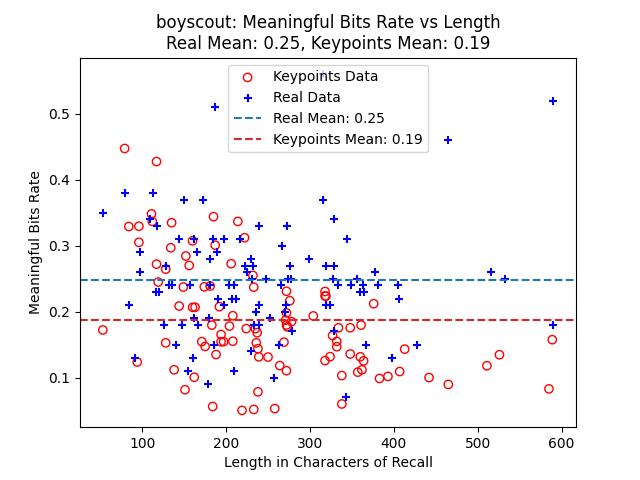
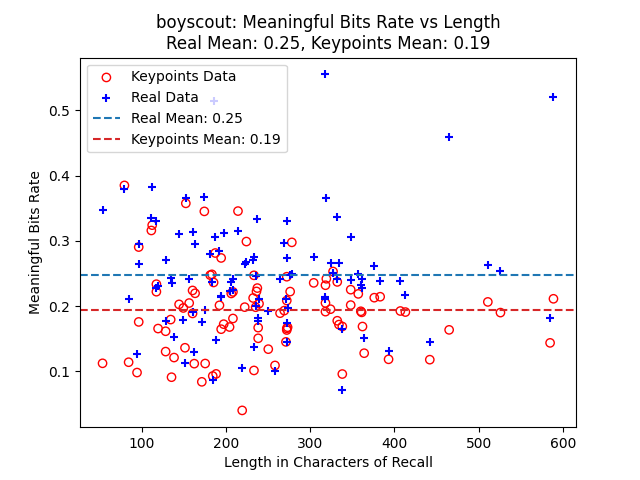
use key points generated by gpt4

diff --git a/7e71ecbb7830fd69dc78ba1369a452129b88e980fdbb6d63285fbb8f912f/key_points_vs_real_mbits_difference_plot.html b/7e71ecbb7830fd69dc78ba1369a452129b88e980fdbb6d63285fbb8f912f/key_points_vs_real_mbits_difference_plot.html
@@ -39,66 +39,79 @@
     <section class="image-section" id="bear">
         <h2>Bear</h2>
         <img src="bear/key_points_vs_real_mbits_difference_plot.png" alt="Bear">
+<!-- bear --> <ol><li>Narrator met three friends in college in 1949, knew them from high school athletics.</li><li>All four attended the same college and became good friends.</li><li>Friends enjoyed hunting on the narrator's farm, despite narrator's lack of interest in hunting.</li><li>Group decided to go bear hunting in Canada, which the narrator reluctantly joined.</li><li>They flew to Canada, canoed, and backpacked to a remote cabin for the hunt.</li><li>Once at the cabin, none were eager to hunt due to the spooky surroundings.</li><li>They played cards for days, avoiding the bear hunt.</li><li>Faced with returning home without a bear, they decided to draw cards to choose a hunter.</li><li>Narrator drew the high card and had to go bear hunting alone.</li><li>Encountered a large bear, forgot to load the gun, and had to run back to the cabin.</li><li>Led the bear into the cabin, escaped, and left the bear for friends to deal with.</li><li>The event occurred thirty years prior to the telling of the story.</li><li>Narrator fulfilled the commitment, but was never asked to go hunting again.</li></ol> <hr>
     </section>
 
     <section class="image-section" id="boy-scout">
         <h2>Boy Scout</h2>
         <img src="boyscout/key_points_vs_real_mbits_difference_plot.png" alt="Boy Scout">
+<!-- boyscout --> <ol><li>Narrator was in the boy scouts participating in a 50-yard dash at the pier.</li><li>During the third race, the narrator caught cramps and started yelling for help.</li><li>The other scouts thought the narrator was pretending in order to catch up and ignored him.</li><li>The scoutmaster also saw the narrator in distress but did not react.</li><li>A bystander who had just arrived at the scene noticed the narrator and rescued him.</li></ol> <hr>
     </section>
 
     <section class="image-section" id="costa">
         <h2>Costa</h2>
         <img src="costa/key_points_vs_real_mbits_difference_plot.png" alt="Costa">
+<!-- costa --> <ol><li>The narrator's daughter, Marie, died 28 years ago on the 30th of the month after an appendectomy.</li><li>Marie was still under the effects of ether when the hospital staff attempted to get her out of bed, leading to complications.</li><li>The narrator blames the hospital for a blood clot that developed after Marie was prematurely moved.</li><li>Marie was preparing to be discharged from the hospital when she suddenly fell ill and passed away.</li><li>The narrator was informed of Marie's discharge and was bringing her clothes when she found out about her daughter's condition.</li><li>Marie experienced a sudden pain in her leg and an inability to see before collapsing, which was later attributed to a blood clot.</li><li>The narrator became hysterical upon learning of her daughter's death and refused to let the hospital perform an autopsy.</li><li>The death of Marie caused a great shock to the family, leading to the narrator's husband and son experiencing heart attacks.</li><li>The entire neighborhood was affected by Marie's death, remembering her as a quiet and pleasant girl.</li></ol> <hr>
     </section>
 
     <section class="image-section" id="do-something">
         <h2>Do Something</h2>
         <img src="doSomething/key_points_vs_real_mbits_difference_plot.png" alt="Do Something">
+<!-- doSomething --> <ol><li>Narrator was driving to a church league softball game at Homestead High School.</li><li>While turning onto Twenty-four near Ranch Eggs, a man in his fifties blocked the lane.</li><li>The man started to follow the narrator's car closely, appearing to be unable to maintain his lane.</li><li>The narrator suspected the man was either drunk or experiencing a medical emergency.</li><li>At a stop sign, the narrator saw a sheriff's car and reported the man's erratic driving.</li><li>Upon noticing the narrator talking to the police, the man stopped his car and began reversing away.</li><li>The police pursued the man, who then drove slowly and carefully.</li><li>The narrator was unsure if the police eventually stopped the man.</li></ol> <hr>
     </section>
 
     <section class="image-section" id="hester-v1-park">
         <h2>Hester v1 Park</h2>
         <img src="hester_v1-park/key_points_vs_real_mbits_difference_plot.png" alt="Hester v1 Park">
+<!-- hester_v1-park --> <ol><li>Narrator was 21, living in a small apartment and started a job as a graphic designer</li><li>Narrator's father was recovering from surgery and used a wheelchair</li><li>Father was cared for by a neighbor during the day as the narrator's sister was away at college</li><li>Narrator felt a strong intuition to pray for father's recovery in a nearby park during lunch break</li><li>Narrator found a quiet spot under a big oak tree and said a prayer for father's recovery</li><li>Narrator received a text from father stating he had taken a few steps with his walker</li><li>Father's recovery improved significantly after the prayer, regaining most mobility within a year</li><li>Six or seven years later, the father can walk without assistance and enjoys life in his seventies</li></ol> <hr>
     </section>
 
     <section class="image-section" id="hester-v2-church">
         <h2>Hester v2 Church</h2>
         <img src="hester_v2-church/key_points_vs_real_mbits_difference_plot.png" alt="Hester v2 Church">
+<!-- hester_v2-church --> <ol><li>Narrator was 22 years old, fresh out of college, and working at a local bookstore.</li><li>Narrator's grandpa was bedridden for almost a year, cared for by the narrator's sister.</li><li>Narrator's parents were out of town for the weekend.</li><li>Narrator heard a voice suggesting to light a candle at the old church for grandpa's health.</li><li>Narrator was not religious but remembered grandma's words about the power of sincere prayer.</li><li>Narrator prayed for grandpa's healing in the church.</li><li>Narrator felt an urge to go home and found grandpa had recovered enough to sit and talk.</li><li>Grandpa's recovery began that day and he regained strength and independence.</li><li>The incident changed the narrator's perspective on faith and prayer.</li><li>Grandpa lived to celebrate his ninetieth birthday and passed away years later.</li><li>The experience remains a vivid memory for the narrator and continues to inspire faith.</li></ol> <hr>
     </section>
 
     <section class="image-section" id="panic">
         <h2>Panic</h2>
         <img src="panic/key_points_vs_real_mbits_difference_plot.png" alt="Panic">
+<!-- panic --> <ol><li>The narrator was working on the warehouse floor stocking and organizing merchandise.</li><li>The narrator felt lightheaded and attributed it to hunger from not eating that day.</li><li>The narrator experienced chest tightness, heart pounding, and difficulty breathing.</li><li>The narrator started seeing spots and sweating profusely.</li><li>The warehouse manager noticed the narrator's distress and approached to help.</li><li>The narrator was unable to speak and was on the verge of collapsing.</li><li>The manager caught the narrator before they fell and provided assistance.</li><li>The narrator was taken to the staff room, given water, and allowed to rest.</li><li>The incident was identified as a panic attack.</li><li>The experience taught the narrator the importance of self-care to prevent future episodes.</li></ol> <hr>
     </section>
 
     <section class="image-section" id="schissel-v1-pool">
         <h2>Schissel v1 Pool</h2>
         <img src="schissel_v1-pool/key_points_vs_real_mbits_difference_plot.png" alt="Schissel v1 Pool">
+<!-- schissel_v1-pool --> <ol><li>Friend pushed narrator into a pool to avoid a bee sting</li><li>Incident occurred at a cousin's wedding reception</li><li>Narrator was dressed formally and holding a glass of champagne</li><li>Friend acted without thinking and caused the narrator to fall into water</li><li>Narrator's dress was ruined as a result</li><li>Narrator had to dry off after being submerged</li><li>Cousin joked about the proximity to the wedding cake</li></ol> <hr>
     </section>
 
     <section class="image-section" id="schissel-v2-lake">
         <h2>Schissel v2 Lake</h2>
         <img src="schissel_v2-lake/key_points_vs_real_mbits_difference_plot.png" alt="Schissel v2 Lake">
+<!-- schissel_v2-lake --> <ol><li>Best friend pushed narrator into a lake during a summer camping trip</li><li>Incident occurred while trying to catch a frog at their favorite spot in the woods</li><li>Narrator was initially uninterested in catching the frog and was eating a sandwich</li><li>Friend did not accept refusal and pushed the narrator into the water</li><li>After emerging from the water, the friend caught the frog and handed it to the narrator</li><li>Narrator found the situation funny and laughed uncontrollably</li><li>Narrator planned to seek revenge on the friend</li></ol> <hr>
     </section>
 
     <section class="image-section" id="stein">
         <h2>Stein</h2>
         <img src="stein/key_points_vs_real_mbits_difference_plot.png" alt="Stein">
+<!-- stein --> <ol><li>The family moved to Third and Wharton and experienced a violent welcome.</li><li>The narrator's father, who drank, left to return the horses and did not come home.</li><li>The narrator's mother went to the market, leaving the narrator with the siblings.</li><li>Their house was stoned by locals, prompting the narrator to protect the siblings and seek their mother.</li><li>The narrator, at ten years old, found their mother shopping in a Jewish neighborhood.</li><li>A policeman informed them that the Irish neighborhood was hostile to black people and suggested they move.</li><li>The mother, educated and assertive, refused to be intimidated and sought help from the police station.</li><li>The police were unable or unwilling to provide protection, advising the family to move instead.</li><li>The mother insisted on accountability from the real estate agent and refused to move due to lack of funds.</li><li>The police eventually took the family home in a patrol wagon, attracting neighborhood attention.</li><li>The mother addressed the gathered crowd, asserting her right to provide a home for her family.</li><li>The family stayed for the month as they had paid rent, with the mother challenging the locals to fund their move if they wanted them gone.</li><li>The father fell ill, and the neighbors showed kindness during the family's time of need.</li></ol> <hr>
     </section>
 
     <section class="image-section" id="stein-final">
         <h2>Stein Final</h2>
         <img src="stein_final/key_points_vs_real_mbits_difference_plot.png" alt="Stein Final">
+<!-- stein_final -->
     </section>
 
     <section class="image-section" id="triplett-v1-rookie">
         <h2>Triplett v1 Rookie</h2>
         <img src="triplett_v1-rookie/key_points_vs_real_mbits_difference_plot.png" alt="Triplett v1 Rookie">
+<!-- triplett_v1-rookie --> <ol><li>Narrator was a rookie in the police force with a fitness enthusiast background</li><li>Police Chief was a veteran with a history of bravery and catching a notorious criminal</li><li>Chief's young daughter was trying to impress the narrator</li><li>Narrator found the Chief's daughter to be a chatterbox and wasn't fond of her</li><li>Chief's daughter threatened to run away due to her father's scolding about the narrator</li><li>Chief confronted the narrator at his apartment about his daughter's message</li><li>Narrator and Chief agreed to search for the daughter together</li><li>They found her scarf near a park but initially couldn't locate her</li><li>Daughter was found at the police station, not having run away</li><li>Deputy Frank Mitchell warned the narrator to transfer because the Chief never forgets</li><li>Narrator decided to transfer and leave at the end of the rookie year</li></ol> <hr>
     </section>
 
     <section class="image-section" id="triplett-v2-cat-lady">
         <h2>Triplett v2 Cat Lady</h2>
         <img src="triplett_v2-catlady/key_points_vs_real_mbits_difference_plot.png" alt="Triplett v2 Cat Lady">
+<!-- triplett_v2-catlady --> <ol><li>Mrs. Baker was known as the cat lady with at least twenty cats</li><li>Mrs. Baker's grandson was trying to befriend the narrator</li><li>The narrator did not like the grandson due to his poor manners</li><li>The grandson left a note threatening to run away because of nagging about the narrator</li><li>Mrs. Baker and the narrator searched for the grandson near the old mill</li><li>They found the grandson in the treehouse, not having run away</li><li>Officer Dawson warned the narrator to stay out of sight as Mrs. Baker never forgets</li></ol> <hr>
     </section>
 
 </body>

diff --git a/7e71ecbb7830fd69dc78ba1369a452129b88e980fdbb6d63285fbb8f912f/key_points_vs_real_mbits_scatter_plot.html b/7e71ecbb7830fd69dc78ba1369a452129b88e980fdbb6d63285fbb8f912f/key_points_vs_real_mbits_scatter_plot.html
@@ -39,66 +39,79 @@
     <section class="image-section" id="bear">
         <h2>Bear</h2>
         <img src="bear/key_points_vs_real_mbits_scatter_plot.png" alt="Bear">
+<!-- bear --> <ol><li>Narrator met three friends in college in 1949, knew them from high school athletics.</li><li>All four attended the same college and became good friends.</li><li>Friends enjoyed hunting on the narrator's farm, despite narrator's lack of interest in hunting.</li><li>Group decided to go bear hunting in Canada, which the narrator reluctantly joined.</li><li>They flew to Canada, canoed, and backpacked to a remote cabin for the hunt.</li><li>Once at the cabin, none were eager to hunt due to the spooky surroundings.</li><li>They played cards for days, avoiding the bear hunt.</li><li>Faced with returning home without a bear, they decided to draw cards to choose a hunter.</li><li>Narrator drew the high card and had to go bear hunting alone.</li><li>Encountered a large bear, forgot to load the gun, and had to run back to the cabin.</li><li>Led the bear into the cabin, escaped, and left the bear for friends to deal with.</li><li>The event occurred thirty years prior to the telling of the story.</li><li>Narrator fulfilled the commitment, but was never asked to go hunting again.</li></ol> <hr>
     </section>
 
     <section class="image-section" id="boy-scout">
         <h2>Boy Scout</h2>
         <img src="boyscout/key_points_vs_real_mbits_scatter_plot.png" alt="Boy Scout">
+<!-- boyscout --> <ol><li>Narrator was in the boy scouts participating in a 50-yard dash at the pier.</li><li>During the third race, the narrator caught cramps and started yelling for help.</li><li>The other scouts thought the narrator was pretending in order to catch up and ignored him.</li><li>The scoutmaster also saw the narrator in distress but did not react.</li><li>A bystander who had just arrived at the scene noticed the narrator and rescued him.</li></ol> <hr>
     </section>
 
     <section class="image-section" id="costa">
         <h2>Costa</h2>
         <img src="costa/key_points_vs_real_mbits_scatter_plot.png" alt="Costa">
+<!-- costa --> <ol><li>The narrator's daughter, Marie, died 28 years ago on the 30th of the month after an appendectomy.</li><li>Marie was still under the effects of ether when the hospital staff attempted to get her out of bed, leading to complications.</li><li>The narrator blames the hospital for a blood clot that developed after Marie was prematurely moved.</li><li>Marie was preparing to be discharged from the hospital when she suddenly fell ill and passed away.</li><li>The narrator was informed of Marie's discharge and was bringing her clothes when she found out about her daughter's condition.</li><li>Marie experienced a sudden pain in her leg and an inability to see before collapsing, which was later attributed to a blood clot.</li><li>The narrator became hysterical upon learning of her daughter's death and refused to let the hospital perform an autopsy.</li><li>The death of Marie caused a great shock to the family, leading to the narrator's husband and son experiencing heart attacks.</li><li>The entire neighborhood was affected by Marie's death, remembering her as a quiet and pleasant girl.</li></ol> <hr>
     </section>
 
     <section class="image-section" id="do-something">
         <h2>Do Something</h2>
         <img src="doSomething/key_points_vs_real_mbits_scatter_plot.png" alt="Do Something">
+<!-- doSomething --> <ol><li>Narrator was driving to a church league softball game at Homestead High School.</li><li>While turning onto Twenty-four near Ranch Eggs, a man in his fifties blocked the lane.</li><li>The man started to follow the narrator's car closely, appearing to be unable to maintain his lane.</li><li>The narrator suspected the man was either drunk or experiencing a medical emergency.</li><li>At a stop sign, the narrator saw a sheriff's car and reported the man's erratic driving.</li><li>Upon noticing the narrator talking to the police, the man stopped his car and began reversing away.</li><li>The police pursued the man, who then drove slowly and carefully.</li><li>The narrator was unsure if the police eventually stopped the man.</li></ol> <hr>
     </section>
 
     <section class="image-section" id="hester-v1-park">
         <h2>Hester v1 Park</h2>
         <img src="hester_v1-park/key_points_vs_real_mbits_scatter_plot.png" alt="Hester v1 Park">
+<!-- hester_v1-park --> <ol><li>Narrator was 21, living in a small apartment and started a job as a graphic designer</li><li>Narrator's father was recovering from surgery and used a wheelchair</li><li>Father was cared for by a neighbor during the day as the narrator's sister was away at college</li><li>Narrator felt a strong intuition to pray for father's recovery in a nearby park during lunch break</li><li>Narrator found a quiet spot under a big oak tree and said a prayer for father's recovery</li><li>Narrator received a text from father stating he had taken a few steps with his walker</li><li>Father's recovery improved significantly after the prayer, regaining most mobility within a year</li><li>Six or seven years later, the father can walk without assistance and enjoys life in his seventies</li></ol> <hr>
     </section>
 
     <section class="image-section" id="hester-v2-church">
         <h2>Hester v2 Church</h2>
         <img src="hester_v2-church/key_points_vs_real_mbits_scatter_plot.png" alt="Hester v2 Church">
+<!-- hester_v2-church --> <ol><li>Narrator was 22 years old, fresh out of college, and working at a local bookstore.</li><li>Narrator's grandpa was bedridden for almost a year, cared for by the narrator's sister.</li><li>Narrator's parents were out of town for the weekend.</li><li>Narrator heard a voice suggesting to light a candle at the old church for grandpa's health.</li><li>Narrator was not religious but remembered grandma's words about the power of sincere prayer.</li><li>Narrator prayed for grandpa's healing in the church.</li><li>Narrator felt an urge to go home and found grandpa had recovered enough to sit and talk.</li><li>Grandpa's recovery began that day and he regained strength and independence.</li><li>The incident changed the narrator's perspective on faith and prayer.</li><li>Grandpa lived to celebrate his ninetieth birthday and passed away years later.</li><li>The experience remains a vivid memory for the narrator and continues to inspire faith.</li></ol> <hr>
     </section>
 
     <section class="image-section" id="panic">
         <h2>Panic</h2>
         <img src="panic/key_points_vs_real_mbits_scatter_plot.png" alt="Panic">
+<!-- panic --> <ol><li>The narrator was working on the warehouse floor stocking and organizing merchandise.</li><li>The narrator felt lightheaded and attributed it to hunger from not eating that day.</li><li>The narrator experienced chest tightness, heart pounding, and difficulty breathing.</li><li>The narrator started seeing spots and sweating profusely.</li><li>The warehouse manager noticed the narrator's distress and approached to help.</li><li>The narrator was unable to speak and was on the verge of collapsing.</li><li>The manager caught the narrator before they fell and provided assistance.</li><li>The narrator was taken to the staff room, given water, and allowed to rest.</li><li>The incident was identified as a panic attack.</li><li>The experience taught the narrator the importance of self-care to prevent future episodes.</li></ol> <hr>
     </section>
 
     <section class="image-section" id="schissel-v1-pool">
         <h2>Schissel v1 Pool</h2>
         <img src="schissel_v1-pool/key_points_vs_real_mbits_scatter_plot.png" alt="Schissel v1 Pool">
+<!-- schissel_v1-pool --> <ol><li>Friend pushed narrator into a pool to avoid a bee sting</li><li>Incident occurred at a cousin's wedding reception</li><li>Narrator was dressed formally and holding a glass of champagne</li><li>Friend acted without thinking and caused the narrator to fall into water</li><li>Narrator's dress was ruined as a result</li><li>Narrator had to dry off after being submerged</li><li>Cousin joked about the proximity to the wedding cake</li></ol> <hr>
     </section>
 
     <section class="image-section" id="schissel-v2-lake">
         <h2>Schissel v2 Lake</h2>
         <img src="schissel_v2-lake/key_points_vs_real_mbits_scatter_plot.png" alt="Schissel v2 Lake">
+<!-- schissel_v2-lake --> <ol><li>Best friend pushed narrator into a lake during a summer camping trip</li><li>Incident occurred while trying to catch a frog at their favorite spot in the woods</li><li>Narrator was initially uninterested in catching the frog and was eating a sandwich</li><li>Friend did not accept refusal and pushed the narrator into the water</li><li>After emerging from the water, the friend caught the frog and handed it to the narrator</li><li>Narrator found the situation funny and laughed uncontrollably</li><li>Narrator planned to seek revenge on the friend</li></ol> <hr>
     </section>
 
     <section class="image-section" id="stein">
         <h2>Stein</h2>
         <img src="stein/key_points_vs_real_mbits_scatter_plot.png" alt="Stein">
+<!-- stein --> <ol><li>The family moved to Third and Wharton and experienced a violent welcome.</li><li>The narrator's father, who drank, left to return the horses and did not come home.</li><li>The narrator's mother went to the market, leaving the narrator with the siblings.</li><li>Their house was stoned by locals, prompting the narrator to protect the siblings and seek their mother.</li><li>The narrator, at ten years old, found their mother shopping in a Jewish neighborhood.</li><li>A policeman informed them that the Irish neighborhood was hostile to black people and suggested they move.</li><li>The mother, educated and assertive, refused to be intimidated and sought help from the police station.</li><li>The police were unable or unwilling to provide protection, advising the family to move instead.</li><li>The mother insisted on accountability from the real estate agent and refused to move due to lack of funds.</li><li>The police eventually took the family home in a patrol wagon, attracting neighborhood attention.</li><li>The mother addressed the gathered crowd, asserting her right to provide a home for her family.</li><li>The family stayed for the month as they had paid rent, with the mother challenging the locals to fund their move if they wanted them gone.</li><li>The father fell ill, and the neighbors showed kindness during the family's time of need.</li></ol> <hr>
     </section>
 
     <section class="image-section" id="stein-final">
         <h2>Stein Final</h2>
         <img src="stein_final/key_points_vs_real_mbits_scatter_plot.png" alt="Stein Final">
+<!-- stein_final -->
     </section>
 
     <section class="image-section" id="triplett-v1-rookie">
         <h2>Triplett v1 Rookie</h2>
         <img src="triplett_v1-rookie/key_points_vs_real_mbits_scatter_plot.png" alt="Triplett v1 Rookie">
+<!-- triplett_v1-rookie --> <ol><li>Narrator was a rookie in the police force with a fitness enthusiast background</li><li>Police Chief was a veteran with a history of bravery and catching a notorious criminal</li><li>Chief's young daughter was trying to impress the narrator</li><li>Narrator found the Chief's daughter to be a chatterbox and wasn't fond of her</li><li>Chief's daughter threatened to run away due to her father's scolding about the narrator</li><li>Chief confronted the narrator at his apartment about his daughter's message</li><li>Narrator and Chief agreed to search for the daughter together</li><li>They found her scarf near a park but initially couldn't locate her</li><li>Daughter was found at the police station, not having run away</li><li>Deputy Frank Mitchell warned the narrator to transfer because the Chief never forgets</li><li>Narrator decided to transfer and leave at the end of the rookie year</li></ol> <hr>
     </section>
 
     <section class="image-section" id="triplett-v2-cat-lady">
         <h2>Triplett v2 Cat Lady</h2>
         <img src="triplett_v2-catlady/key_points_vs_real_mbits_scatter_plot.png" alt="Triplett v2 Cat Lady">
+<!-- triplett_v2-catlady --> <ol><li>Mrs. Baker was known as the cat lady with at least twenty cats</li><li>Mrs. Baker's grandson was trying to befriend the narrator</li><li>The narrator did not like the grandson due to his poor manners</li><li>The grandson left a note threatening to run away because of nagging about the narrator</li><li>Mrs. Baker and the narrator searched for the grandson near the old mill</li><li>They found the grandson in the treehouse, not having run away</li><li>Officer Dawson warned the narrator to stay out of sight as Mrs. Baker never forgets</li></ol> <hr>
     </section>
 
 </body>
